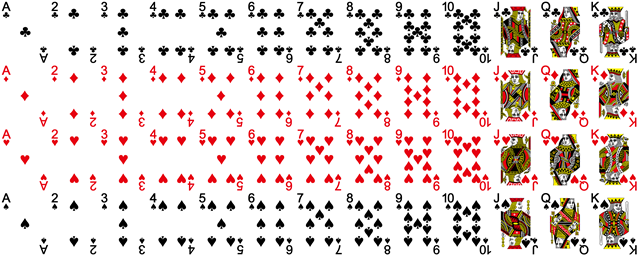
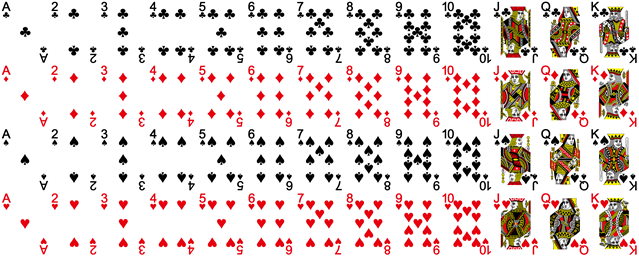
Add Snap Validation
Also support returning to where the card came from if the validation fails

diff --git a/spider/source/SPCard.cpp b/spider/source/SPCard.cpp
@@ -17,9 +17,10 @@
 #define STACK_OFFSET 0.0001f
 #define STACK_MAX 0.1f
 
-SPCard::SPCard(glm::vec2 position, SPCardSuit suit, SPCardValue value)
+SPCard::SPCard(glm::vec2 position, SPCardSuit suit, SPCardValue value, SPSnapValidator* validator)
 : suit(suit)
 , value(value)
+, validator(validator)
 , size(49.f, 64.f)
 {
     this->transform.setPosition2(position);
@@ -76,8 +77,8 @@ void SPCard::update(float deltaTime)
                 if(isTopmostAtPoint(event.position))
                 {
                     grabPosition = event.position; // Where the grab started
-                    grabOffset = glm::vec2(grabPosition.x - cardPosition.x, grabPosition.y -
-                                                                            cardPosition.y); // The offset into the card the grab occurred
+                    grabOffset = glm::vec2(grabPosition.x - cardPosition.x,
+                                           grabPosition.y - cardPosition.y); // The offset into the card the grab occurred
 
                     if(parent)
                     {
@@ -110,7 +111,8 @@ void SPCard::update(float deltaTime)
                             float newArea = it->second.x * it->second.y;
                             if (newSnap->snappedCard == nullptr &&
                                 !this->isInSnapPile(newSnap) &&
-                                newArea > bestArea)
+                                newArea > bestArea &&
+                                validator->validate(newSnap, this))
                             {
                                 bestSnap = newSnap;
                                 bestArea = newArea;
@@ -120,6 +122,9 @@ void SPCard::update(float deltaTime)
 
                     if (bestSnap)
                         bestSnap->snap(this);
+                    else
+                        transform.setPosition2(glm::vec2(grabPosition.x - grabOffset.x,
+                                                         grabPosition.y - grabOffset.y));
                 }
 
                 grabPosition = NO_GRAB;

diff --git a/spider/source/SPScene.cpp b/spider/source/SPScene.cpp
@@ -5,6 +5,7 @@
 #include "SPScene.h"
 #include "SPBackground.h"
 #include "SPCard.h"
+#include "SPSnapValidatorFourSuits.h"
 
 #include "EntityManager.h"
 #include "CameraEntity2D.h"
@@ -12,10 +13,11 @@
 SPScene::SPScene()
 {
     EntityManager* entityManager = EntityManager::getInstance();
+    SPSnapValidatorFourSuits* validator = new SPSnapValidatorFourSuits();
     entityManager->registerEntity(this, new CameraEntity2D());
     entityManager->registerEntity(this, new SPBackground());
-    entityManager->registerEntity(this, new SPCard(glm::vec2(10.f, 10.f), SPSUIT_HEART, SPVALUE_TEN));
-    entityManager->registerEntity(this, new SPCard(glm::vec2(60.f, 10.f), SPSUIT_SPADE, SPVALUE_JACK));
-    entityManager->registerEntity(this, new SPCard(glm::vec2(60.f, 10.f), SPSUIT_DIAMOND, SPVALUE_QUEEN));
-    entityManager->registerEntity(this, new SPCard(glm::vec2(60.f, 10.f), SPSUIT_CLUB, SPVALUE_KING));
+    entityManager->registerEntity(this, new SPCard(glm::vec2(10.f, 10.f), SPSUIT_SPADE, SPVALUE_TEN, validator));
+    entityManager->registerEntity(this, new SPCard(glm::vec2(110.f, 10.f), SPSUIT_HEART, SPVALUE_JACK, validator));
+    entityManager->registerEntity(this, new SPCard(glm::vec2(210.f, 10.f), SPSUIT_DIAMOND, SPVALUE_JACK, validator));
+    entityManager->registerEntity(this, new SPCard(glm::vec2(310.f, 10.f), SPSUIT_CLUB, SPVALUE_KING, validator));
 }

diff --git a/spider/source/include/SPCard.h b/spider/source/include/SPCard.h
@@ -9,13 +9,14 @@
 
 #include "Entity.h"
 #include "ICollisionReceiver.h"
+#include "SPSnapValidator.h"
 
 enum SPCardSuit
 {
     SPSUIT_CLUB,
     SPSUIT_DIAMOND,
-    SPSUIT_HEART,
-    SPSUIT_SPADE
+    SPSUIT_SPADE,
+    SPSUIT_HEART
 };
 
 enum SPCardValue
@@ -42,6 +43,7 @@ class SPCard : public Entity, public ICollisionReceiver
 {
     SPCardSuit suit;
     SPCardValue value;
+    SPSnapValidator* validator;
 
     glm::vec2 size;
     glm::vec2 grabPosition = NO_GRAB;
@@ -52,7 +54,7 @@ class SPCard : public Entity, public ICollisionReceiver
 public:
     SPCard* snappedCard = nullptr;
 
-    SPCard(glm::vec2 position, SPCardSuit suit, SPCardValue value);
+    SPCard(glm::vec2 position, SPCardSuit suit, SPCardValue value, SPSnapValidator* validator);
 
     SPCardSuit getSuit() { return suit; }
     SPCardValue getValue() { return value; }

diff --git a/spider/source/SPSnapValidatorFourSuits.cpp b/spider/source/SPSnapValidatorFourSuits.cpp
@@ -1,0 +1,24 @@
+//
+// Created by Will on 1/14/2023.
+//
+
+#include "SPSnapValidatorFourSuits.h"
+
+#include "SPCard.h"
+
+bool SPSnapValidatorFourSuits::validate(Entity* parent, Entity* child)
+{
+    if(SPCard* childCard = dynamic_cast<SPCard*>(child))
+    {
+        if(SPCard* parentCard = dynamic_cast<SPCard*>(parent))
+        {
+            bool suitsAlternate = (parentCard->getSuit() % 2) != (childCard->getSuit() % 2);
+            bool valuesDecrease = parentCard->getValue() == childCard->getValue() + 1;
+            if(suitsAlternate && valuesDecrease)
+                return true;
+            return false;
+        }
+    }
+
+    return false;
+}

diff --git a/spider/source/include/SPSnapValidatorFourSuits.h b/spider/source/include/SPSnapValidatorFourSuits.h
@@ -1,0 +1,16 @@
+//
+// Created by Will on 1/14/2023.
+//
+
+#ifndef SP_SNAP_VALIDATOR_FOUR_SUITS_H
+#define SP_SNAP_VALIDATOR_FOUR_SUITS_H
+
+#include "SPSnapValidator.h"
+
+class SPSnapValidatorFourSuits : public SPSnapValidator
+{
+public:
+    bool validate(Entity* parent, Entity* child);
+};
+
+#endif //SP_SNAP_VALIDATOR_FOUR_SUITS_H

diff --git a/spider/source/include/SPSnapValidator.h b/spider/source/include/SPSnapValidator.h
@@ -1,0 +1,16 @@
+//
+// Created by Will on 1/14/2023.
+//
+
+#ifndef SP_SNAP_VALIDATOR_H
+#define SP_SNAP_VALIDATOR_H
+
+#include "Entity.h"
+
+class SPSnapValidator
+{
+public:
+    virtual bool validate(Entity* parent, Entity* child) = 0;
+};
+
+#endif //SP_SNAP_VALIDATOR_H
